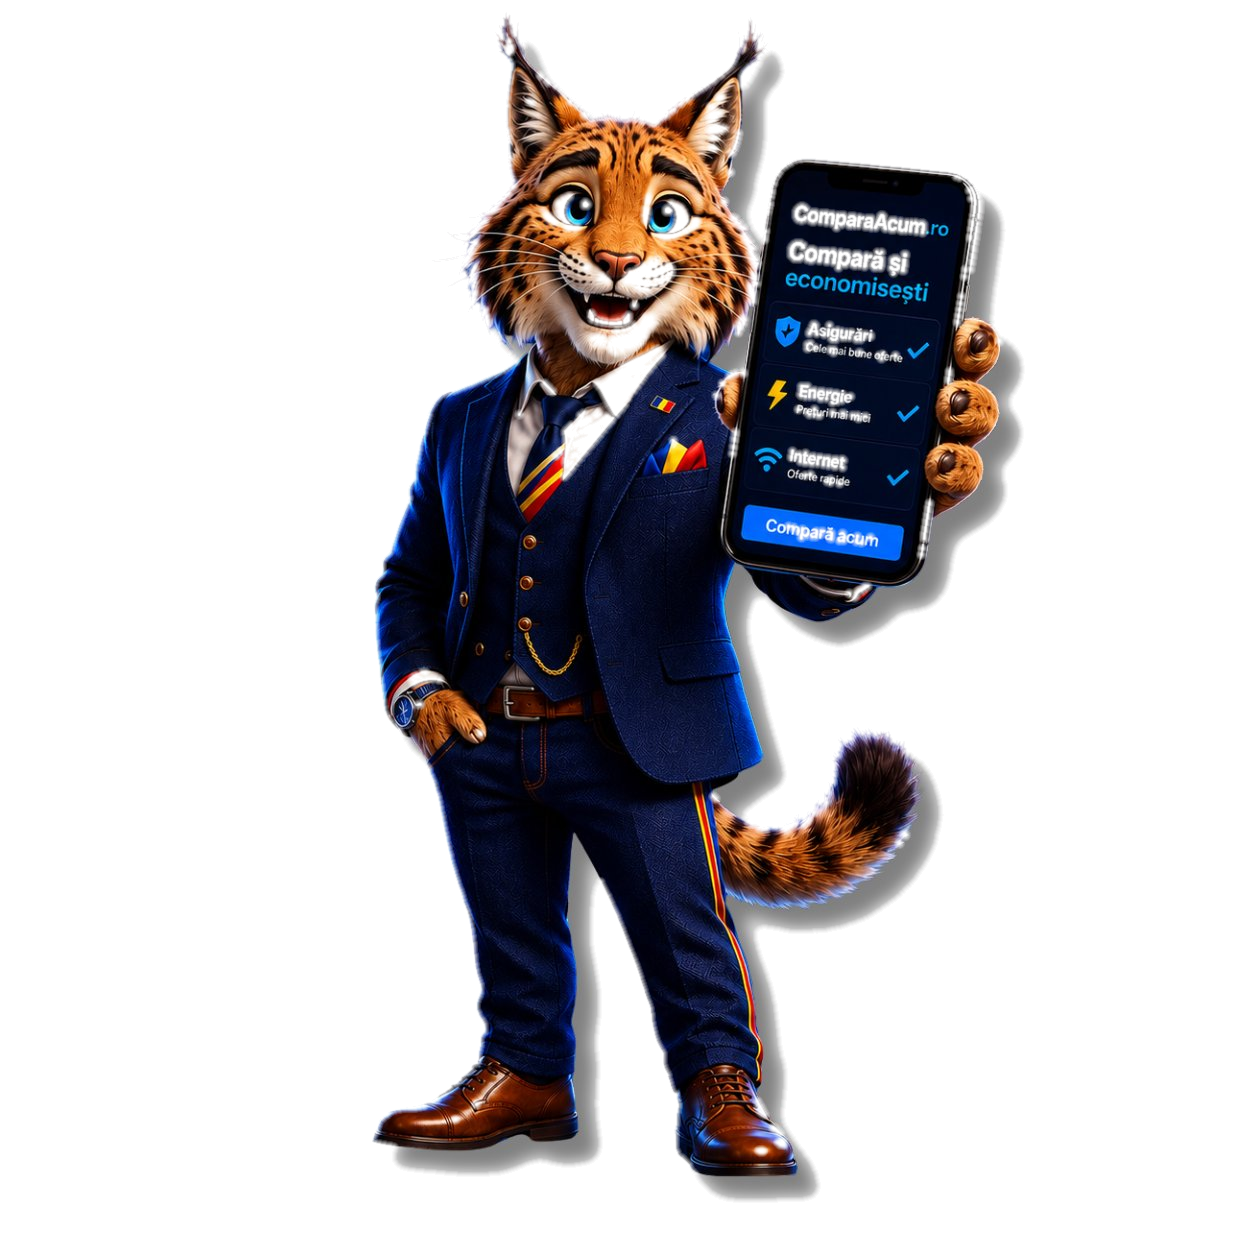
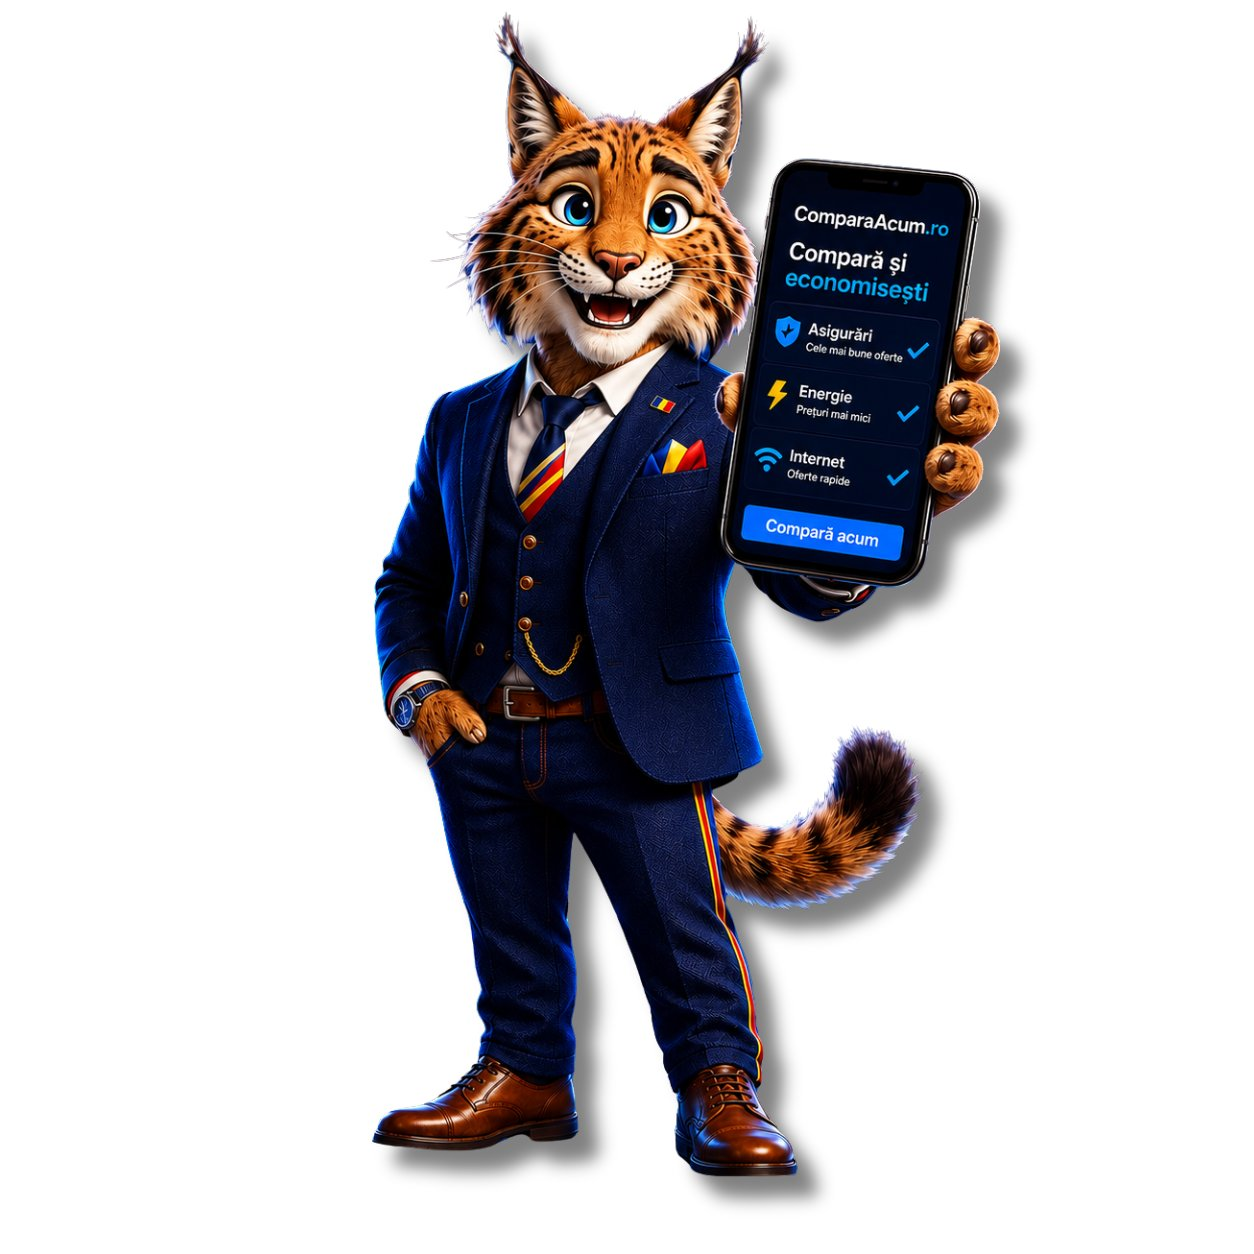
Add files via upload

diff --git a/compara-v18/blog.html b/compara-v18/blog.html
@@ -4,7 +4,7 @@
 <meta charset="UTF-8"/>
 <meta name="viewport" content="width=device-width, initial-scale=1.0"/>
 <title>Blog — ComparaAcum.ro</title>
-<link rel="stylesheet" href="css/main.css?v=30"/>
+<link rel="stylesheet" href="css/main.css?v=31"/>
 <link href="https://fonts.googleapis.com/css2?family=Inter:wght@400;500;600;700;800;900&display=swap" rel="stylesheet"/>
 <!-- Google tag (gtag.js) -->
 <script async src="https://www.googletagmanager.com/gtag/js?id=G-RN97LTXFW4"></script>

diff --git a/compara-v18/blog/energie-2026.html b/compara-v18/blog/energie-2026.html
@@ -5,7 +5,7 @@
 <meta name="viewport" content="width=device-width, initial-scale=1.0"/>
 <title>Cum schimbi furnizorul de energie electrică în 2026 — ghid pas cu pas — ComparaAcum.ro</title>
 <meta name="description" content="Tot ce trebuie să știi despre schimbarea furnizorului de energie electrică în România în 2026."/>
-<link rel="stylesheet" href="../css/main.css?v=30"/>
+<link rel="stylesheet" href="../css/main.css?v=31"/>
 <link href="https://fonts.googleapis.com/css2?family=Inter:wght@400;500;600;700;800;900&display=swap" rel="stylesheet"/>
 <style>
 .article-wrap{max-width:740px;margin:0 auto;padding:7rem 2rem 5rem;}

diff --git a/compara-v18/blog/internet-2026.html b/compara-v18/blog/internet-2026.html
@@ -5,7 +5,7 @@
 <meta name="viewport" content="width=device-width, initial-scale=1.0"/>
 <title>Cele mai bune oferte internet fibră optică în România 2026 — ComparaAcum.ro</title>
 <meta name="description" content="Comparație completă între Digi, Orange, Telekom și Vodafone — prețuri, viteze și calitate."/>
-<link rel="stylesheet" href="../css/main.css?v=30"/>
+<link rel="stylesheet" href="../css/main.css?v=31"/>
 <link href="https://fonts.googleapis.com/css2?family=Inter:wght@400;500;600;700;800;900&display=swap" rel="stylesheet"/>
 <style>
 .article-wrap{max-width:740px;margin:0 auto;padding:7rem 2rem 5rem;}

diff --git a/compara-v18/blog/rca-2026.html b/compara-v18/blog/rca-2026.html
@@ -5,7 +5,7 @@
 <meta name="viewport" content="width=device-width, initial-scale=1.0"/>
 <title>Cum alegi cea mai ieftină asigurare RCA în 2026 fără să sacrifici calitatea — ComparaAcum.ro</title>
 <meta name="description" content="Ghid complet: ce verifici înainte să cumperi, cum compari ofertele corect și capcanele pe care le eviți."/>
-<link rel="stylesheet" href="../css/main.css?v=30"/>
+<link rel="stylesheet" href="../css/main.css?v=31"/>
 <link href="https://fonts.googleapis.com/css2?family=Inter:wght@400;500;600;700;800;900&display=swap" rel="stylesheet"/>
 <style>
 .article-wrap{max-width:740px;margin:0 auto;padding:7rem 2rem 5rem;}

diff --git a/compara-v18/contact.html b/compara-v18/contact.html
@@ -4,7 +4,7 @@
 <meta charset="UTF-8"/>
 <meta name="viewport" content="width=device-width, initial-scale=1.0"/>
 <title>Contact — ComparaAcum.ro</title>
-<link rel="stylesheet" href="css/main.css?v=30"/>
+<link rel="stylesheet" href="css/main.css?v=31"/>
 <link href="https://fonts.googleapis.com/css2?family=Inter:wght@400;500;600;700;800;900&display=swap" rel="stylesheet"/>
 <!-- Google tag (gtag.js) -->
 <script async src="https://www.googletagmanager.com/gtag/js?id=G-RN97LTXFW4"></script>

diff --git a/compara-v18/css/main.css b/compara-v18/css/main.css
@@ -155,7 +155,7 @@ body.hovering #cursor-ring{width:52px;height:52px;border-color:rgba(0,212,255,.8
 
 /* Mascota sectiune mobil */
 .mascot-mobile-section{display:none;text-align:center;padding:2rem 1rem;background:var(--bg-secondary)}
-.mascot-mobile-section img{width:85%;max-width:340px;height:auto}
+.mascot-mobile-section img{width:85%;max-width:340px;height:auto;mix-blend-mode:multiply}
 .mascot-mobile-section p{color:var(--text-secondary);font-size:.95rem;margin-top:.75rem;font-style:italic}
 @media(max-width:1250px){.mascot-mobile-section{display:block}}
 

diff --git a/compara-v18/despre.html b/compara-v18/despre.html
@@ -4,7 +4,7 @@
 <meta charset="UTF-8"/>
 <meta name="viewport" content="width=device-width, initial-scale=1.0"/>
 <title>Despre noi — ComparaAcum.ro</title>
-<link rel="stylesheet" href="css/main.css?v=30"/>
+<link rel="stylesheet" href="css/main.css?v=31"/>
 <link href="https://fonts.googleapis.com/css2?family=Inter:wght@400;500;600;700;800;900&display=swap" rel="stylesheet"/>
 <!-- Google tag (gtag.js) -->
 <script async src="https://www.googletagmanager.com/gtag/js?id=G-RN97LTXFW4"></script>

diff --git a/compara-v18/devino-partener.html b/compara-v18/devino-partener.html
@@ -5,7 +5,7 @@
 <meta name="viewport" content="width=device-width, initial-scale=1.0"/>
 <title>Devino Partener — ComparaAcum.ro</title>
 <meta name="description" content="Devino furnizor partener pe ComparaAcum.ro și ajunge la mii de clienți care compară asigurări, energie și internet în România."/>
-<link rel="stylesheet" href="css/main.css?v=30"/>
+<link rel="stylesheet" href="css/main.css?v=31"/>
 <link href="https://fonts.googleapis.com/css2?family=Inter:wght@400;500;600;700;800;900&display=swap" rel="stylesheet"/>
 <style>
 .partner-benefits{display:grid;grid-template-columns:repeat(auto-fit,minmax(260px,1fr));gap:1.5rem;margin:2rem 0}

diff --git a/compara-v18/index.html b/compara-v18/index.html
@@ -6,7 +6,7 @@
 <title>ComparaAcum.ro — Compară asigurări, energie și internet în România</title>
 <meta name="description" content="Compară gratuit asigurări RCA, asigurări casă, furnizori energie electrică, gaze și internet. Găsește cea mai bună ofertă în 2 minute și economisești până la 1.200 RON pe an."/>
 <link rel="canonical" href="https://comparaacum.ro/"/>
-<link rel="stylesheet" href="css/main.css?v=30"/>
+<link rel="stylesheet" href="css/main.css?v=31"/>
 <link href="https://fonts.googleapis.com/css2?family=Inter:wght@400;500;600;700;800;900&display=swap" rel="stylesheet"/>
 <style>
 /* Widget sub-tabs */

diff --git a/compara-v18/rezultate-casa.html b/compara-v18/rezultate-casa.html
@@ -4,7 +4,7 @@
 <meta charset="UTF-8"/>
 <meta name="viewport" content="width=device-width, initial-scale=1.0"/>
 <title>Compară asigurări casă 2026 — ComparaAcum.ro</title>
-<link rel="stylesheet" href="css/main.css?v=30"/>
+<link rel="stylesheet" href="css/main.css?v=31"/>
 <link href="https://fonts.googleapis.com/css2?family=Inter:wght@400;500;600;700;800;900&display=swap" rel="stylesheet"/>
 <!-- Google tag (gtag.js) -->
 <script async src="https://www.googletagmanager.com/gtag/js?id=G-RN97LTXFW4"></script>

diff --git a/compara-v18/rezultate-energie.html b/compara-v18/rezultate-energie.html
@@ -4,7 +4,7 @@
 <meta charset="UTF-8"/>
 <meta name="viewport" content="width=device-width, initial-scale=1.0"/>
 <title>Compară furnizori energie electrică 2026 — ComparaAcum.ro</title>
-<link rel="stylesheet" href="css/main.css?v=30"/>
+<link rel="stylesheet" href="css/main.css?v=31"/>
 <link href="https://fonts.googleapis.com/css2?family=Inter:wght@400;500;600;700;800;900&display=swap" rel="stylesheet"/>
 <!-- Google tag (gtag.js) -->
 <script async src="https://www.googletagmanager.com/gtag/js?id=G-RN97LTXFW4"></script>

diff --git a/compara-v18/rezultate-gaze.html b/compara-v18/rezultate-gaze.html
@@ -4,7 +4,7 @@
 <meta charset="UTF-8"/>
 <meta name="viewport" content="width=device-width, initial-scale=1.0"/>
 <title>Compară furnizori gaze naturale 2026 — ComparaAcum.ro</title>
-<link rel="stylesheet" href="css/main.css?v=30"/>
+<link rel="stylesheet" href="css/main.css?v=31"/>
 <link href="https://fonts.googleapis.com/css2?family=Inter:wght@400;500;600;700;800;900&display=swap" rel="stylesheet"/>
 <!-- Google tag (gtag.js) -->
 <script async src="https://www.googletagmanager.com/gtag/js?id=G-RN97LTXFW4"></script>